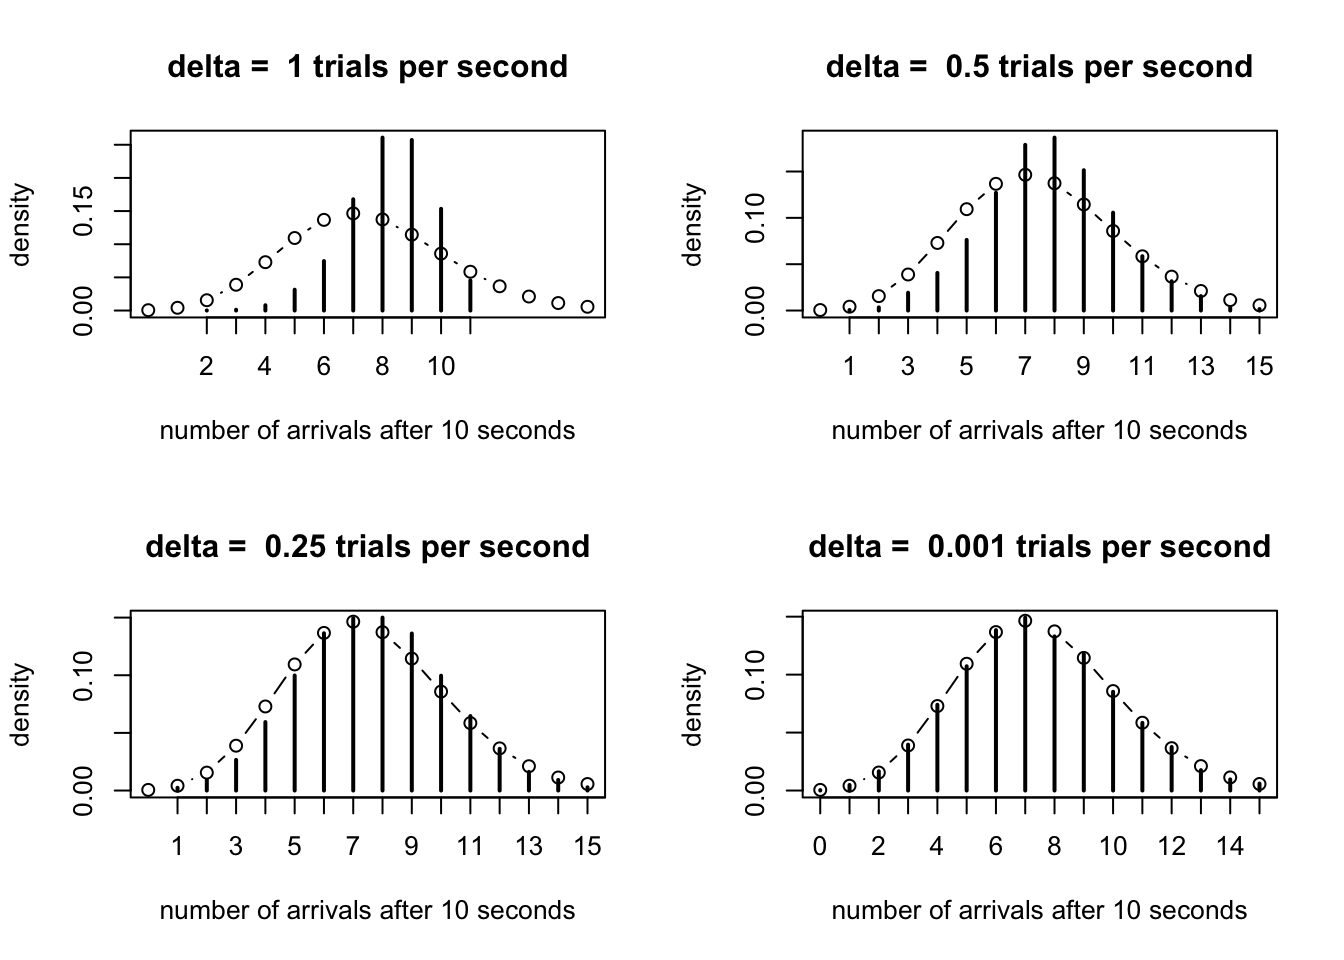
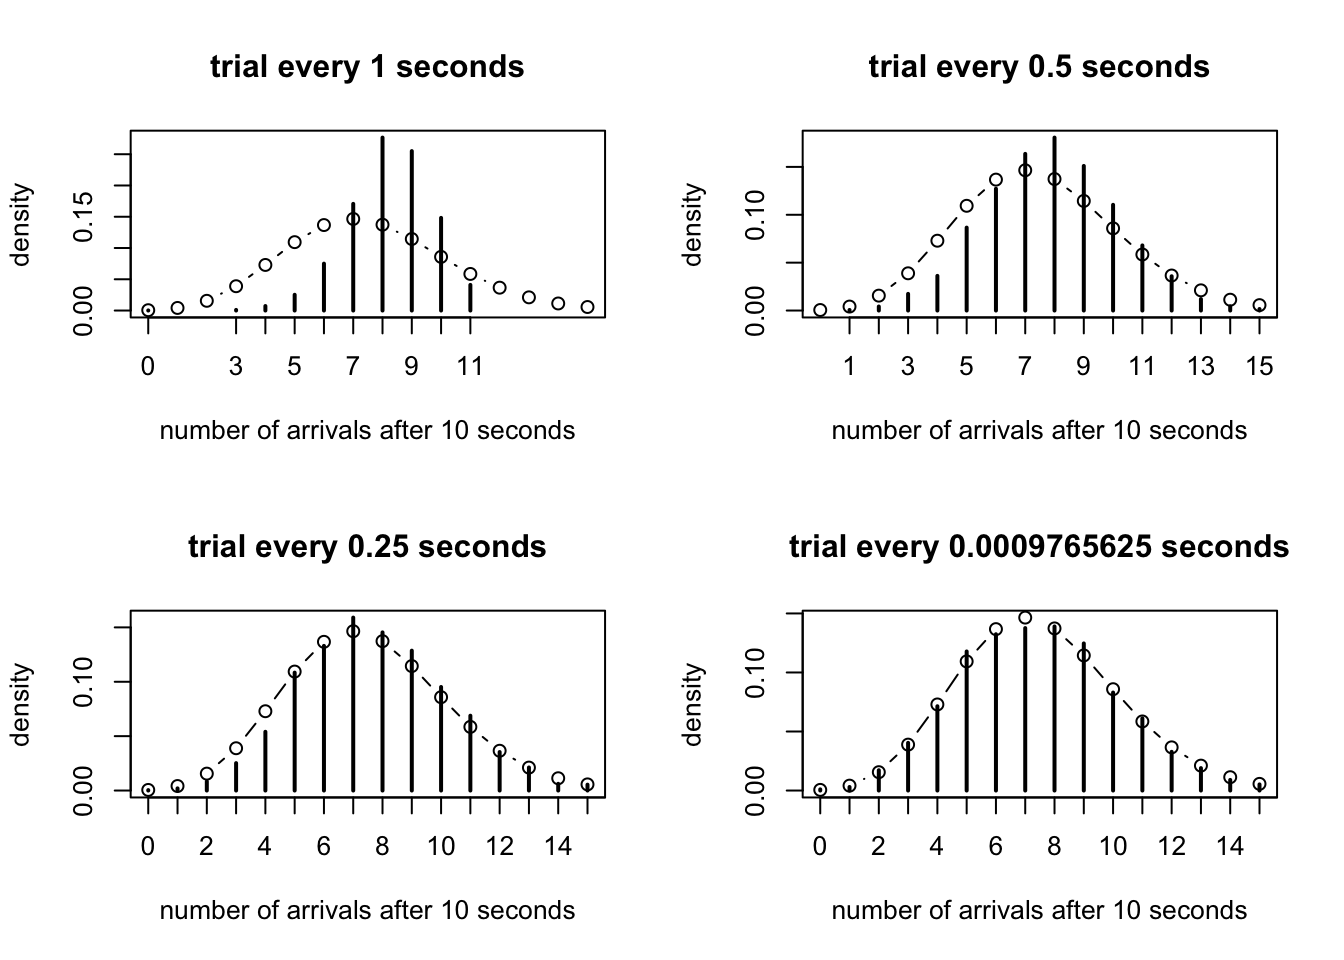
fix plot titles

diff --git a/analysis/bernoulli_poisson_process.html b/analysis/bernoulli_poisson_process.html
@@ -136,7 +136,7 @@ img {
 </div>
 
 <p><strong>Last updated:</strong> 2016-02-06</p>
-<p><strong>Code version:</strong> 0ba385e88621df96b05d76c86831601f0fc71921</p>
+<p><strong>Code version:</strong> 16dfe6685c64f0b22708752da0d6c860cd4e3e19</p>
 <div id="pre-requisites" class="section level1">
 <h1>Pre-requisites</h1>
 <p>This document assumes basic familiarity with the Poisson process.</p>
@@ -209,7 +209,7 @@ compare.density &lt;- function(b.process, delta, inspect.at=10) {
   pois.density &lt;- dpois(0:80, inspect.at*lambda)
   
   # plot
-  plot(tt/sum(tt), main=paste(&quot;delta = &quot;,round(delta,4), &quot;trials per second&quot;), xlab=&#39;number of arrivals after 10 seconds&#39;, ylab=&#39;density&#39;, xlim=c(0,15), ylim=range(c(tt/sum(tt), pois.density)))
+  plot(tt/sum(tt), main=paste(&quot;trial every&quot;, delta, &quot;seconds&quot;), xlab=&#39;number of arrivals after 10 seconds&#39;, ylab=&#39;density&#39;, xlim=c(0,15), ylim=range(c(tt/sum(tt), pois.density)))
   lines(0:80,pois.density, &#39;b&#39;)
 }
 
@@ -238,9 +238,9 @@ other attached packages:
 [1] knitr_1.11
 
 loaded via a namespace (and not attached):
- [1] magrittr_1.5    formatR_1.2.1   tools_3.2.2     htmltools_0.3  
- [5] yaml_2.1.13     stringi_1.0-1   rmarkdown_0.9.2 stringr_1.0.0  
- [9] digest_0.6.8    evaluate_0.8   </code></pre>
+ [1] magrittr_1.5     formatR_1.2.1    tools_3.2.2      htmltools_0.3   
+ [5] yaml_2.1.13      codetools_0.2-14 stringi_1.0-1    rmarkdown_0.9.2 
+ [9] stringr_1.0.0    digest_0.6.8     evaluate_0.8    </code></pre>
 </div>
 
 
